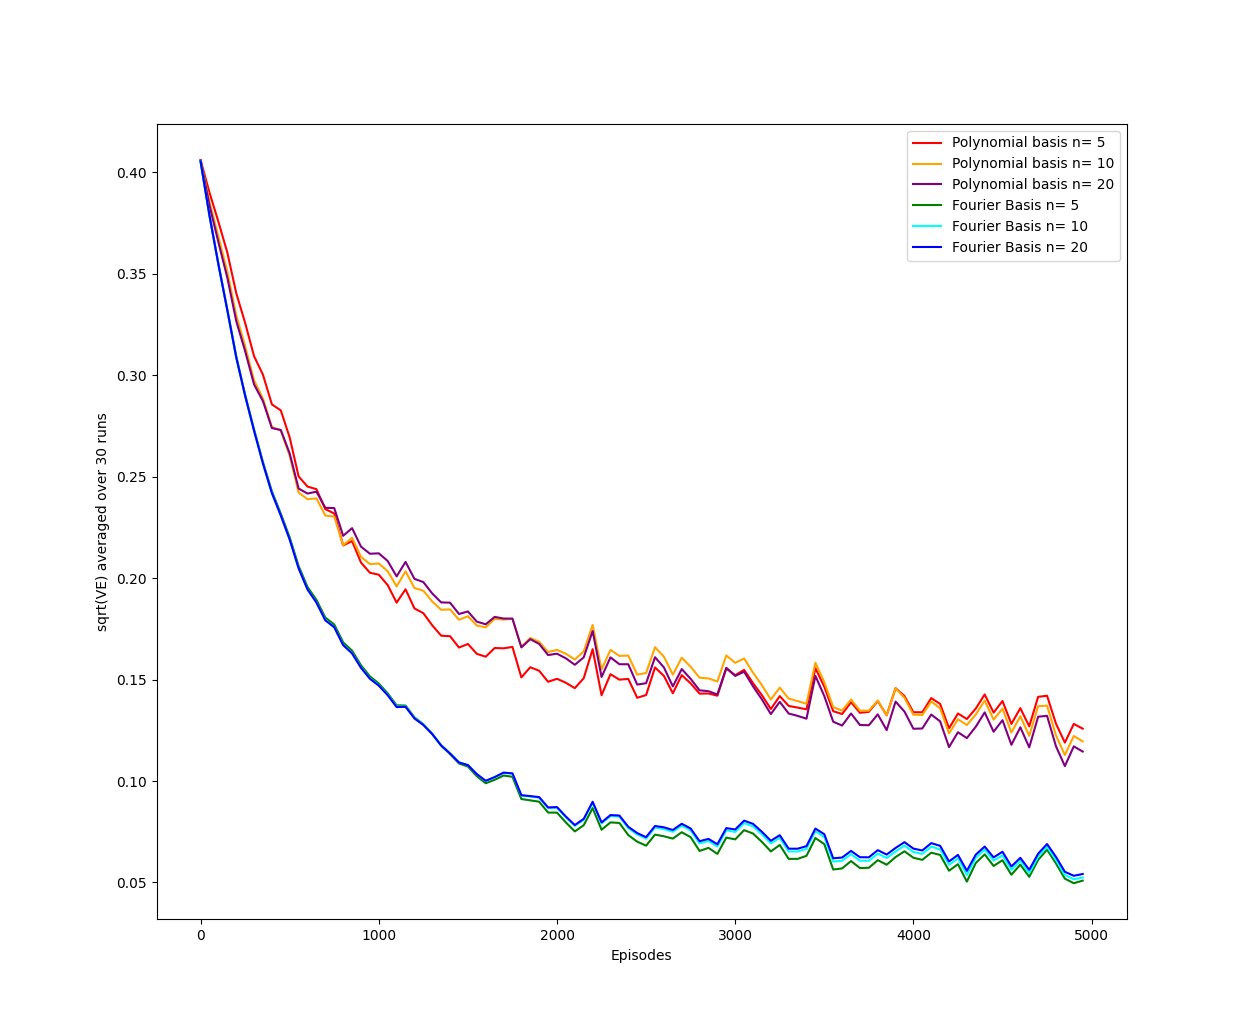
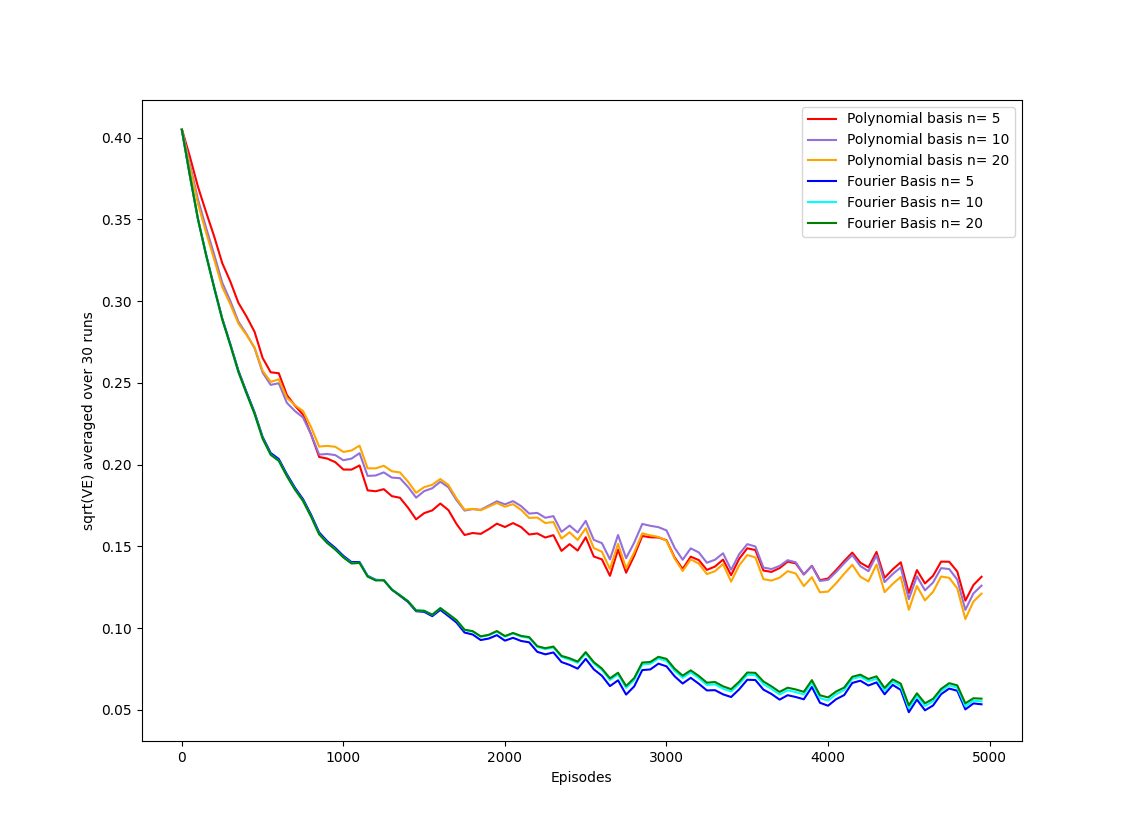
9.5 Refactor & Small Improvements

diff --git a/Part-II/9. On-policy Prediction with Approximation/utility/function_approximators.py b/Part-II/9. On-policy Prediction with Approximation/utility/function_approximators.py
@@ -1,4 +1,7 @@
 import numpy as np
+import math
+
+from .misc import *
 
 class GradientFunctionApproximator(object):
     def __init__(self, d, weights=None):
@@ -50,9 +53,10 @@ class PolynomialBasis(GradientFunctionApproximator):
     '''
     Expects 1d input
     '''
-    def __init__(self, n, highest_value):
+    def __init__(self, n, highest_value, lowest_value=0):
         self.d = n + 1
-        self.highest_value = highest_value
+        self.lowest_value = lowest_value
+        self.interval = highest_value - lowest_value
         super().__init__(self.d)
 
     def __call__(self, input):
@@ -63,7 +67,9 @@ class PolynomialBasis(GradientFunctionApproximator):
         return self._construct_feature_vector(input)
     
     def _construct_feature_vector(self, input):
-        input /= self.highest_value
+        input -= self.lowest_value
+        input /= self.interval
+        input = clip(input, 0, 1)
         powers = np.ones(self.d)
         for i in range(1, len(powers)):
             powers[i] = powers[i - 1] * input
@@ -73,9 +79,10 @@ class FourierBasis(GradientFunctionApproximator):
     '''
     Expects 1d input
     '''
-    def __init__(self, n, highest_value):
+    def __init__(self, n, highest_value, lowest_value=0):
         self.d = n + 1
-        self.highest_value = highest_value
+        self.lowest_value = lowest_value
+        self.interval = highest_value - lowest_value
         super().__init__(self.d)
 
     def __call__(self, input):
@@ -86,18 +93,21 @@ class FourierBasis(GradientFunctionApproximator):
         return self._construct_feature_vector(input)
     
     def _construct_feature_vector(self, input):
-        input /= self.highest_value
-        return np.cos(np.pi * input * np.arange(self.d))
+        input -= self.lowest_value
+        input /= self.interval
+        input = clip(input, 0, 1)
+        return np.cos(math.pi * input * np.arange(self.d))
 
 class TileCoding(GradientFunctionApproximator):
     '''
-    Expects 1d, discrete, input
+    Expects 1d input
     '''
-    def __init__(self, num_tilings, width, highest_value):
+    def __init__(self, num_tilings, width, highest_value, lowest_value=0):
         self.num_tilings = num_tilings
         self.width = width
-        self.highest_value = highest_value
-        self.max_tiles = int(np.ceil((highest_value + (num_tilings - 1) * (width / num_tilings)) / width)) + 1
+        self.lowest_value = lowest_value
+        interval = highest_value - lowest_value
+        self.max_tiles = int(math.ceil((interval + (num_tilings - 1) * (width / num_tilings)) / width))
         self.d = self.max_tiles * num_tilings
         super().__init__(self.d)
 
@@ -119,4 +129,7 @@ class TileCoding(GradientFunctionApproximator):
         self.weights = self.weights + alpha / self.num_tilings * change
     
     def _get_indices(self, input):
-        return [int((input + i * (self.width / self.num_tilings)) / self.width) + i * self.max_tiles for i in range(self.num_tilings)]
+        input -= self.lowest_value
+        # The clip makes sure that the index is valid even if there are outliers not in the interval [lowest_value, highest_value]
+        # Also, the very end point of the last interval/tile is not included normally, so a form of clip or min is necessary there 
+        return [clip(int((input + i * (self.width / self.num_tilings)) / self.width), 0, self.max_tiles - 1) + i * self.max_tiles for i in range(self.num_tilings)]

diff --git a/Part-II/9. On-policy Prediction with Approximation/9.5 Fourier & Polynomial Basis/main.py b/Part-II/9. On-policy Prediction with Approximation/9.5 Fourier & Polynomial Basis/main.py
@@ -19,11 +19,12 @@ JUMP_SIZE = 100
 ENVIRONMENT = RandomWalk(num_states=NUM_STATES, step_size=JUMP_SIZE)
 AGENT = RepeatableWrapper(StateCounterWrapper(UniformAgent(ENVIRONMENT)))
 N_VALUES = [5, 10, 20]
-V = [[PolynomialBasis(n, NUM_STATES) for n in N_VALUES], [FourierBasis(n, NUM_STATES) for n in N_VALUES]]
+V = [[PolynomialBasis(n=n, highest_value=NUM_STATES, lowest_value=1) for n in N_VALUES],
+     [FourierBasis(n=n, highest_value=NUM_STATES, lowest_value=1) for n in N_VALUES]]
 MAX_DELTA = 0.0001
 GAMMA = 1
 ALPHAS = [0.0001, 0.00005]
-COLOURS = [['red', 'orange', 'purple'], ['green', 'cyan', 'blue']]
+COLOURS = [['red', 'mediumpurple', 'orange'], ['blue', 'cyan', 'green']]
 LABELS = ['Polynomial basis', 'Fourier Basis']
 
 if __name__ == '__main__':
@@ -46,7 +47,7 @@ if __name__ == '__main__':
                 for e in tqdm(range(EPISODES), leave=False):
                     V[a][n] = gradient_monte_carlo_v(ENVIRONMENT, AGENT, GAMMA, max_episodes=1, alpha=ALPHAS[a], V=V[a][n], log=False)
                     if e % EPISODE_PLOT_INTERVAL == 0:
-                        errors[run, e // EPISODE_PLOT_INTERVAL, a, n] = np.sqrt(calculate_VE(lambda s: true_values[s - 1], V[a][n], states, distribution))
+                        errors[run, e // EPISODE_PLOT_INTERVAL, a, n] = math.sqrt(calculate_VE(lambda s: true_values[s - 1], V[a][n], states, distribution))
     
     errors = np.average(errors, axis=0)
 

diff --git a/Part-II/9. On-policy Prediction with Approximation/9.5 Tile Coding/main.py b/Part-II/9. On-policy Prediction with Approximation/9.5 Tile Coding/main.py
@@ -19,7 +19,8 @@ JUMP_SIZE = 100
 ENVIRONMENT = RandomWalk(num_states=NUM_STATES, step_size=JUMP_SIZE)
 AGENT = RepeatableWrapper(StateCounterWrapper(UniformAgent(ENVIRONMENT)))
 NUM_TILINGS = 50
-V = [TileCoding(num_tilings=1, width=200, highest_value=NUM_STATES), TileCoding(num_tilings=NUM_TILINGS, width=200, highest_value=NUM_STATES)]
+V = [TileCoding(num_tilings=1, width=200, highest_value=NUM_STATES, lowest_value=1), 
+     TileCoding(num_tilings=NUM_TILINGS, width=200, highest_value=NUM_STATES, lowest_value=1)]
 MAX_DELTA = 0.0001
 GAMMA = 1
 ALPHA = 0.0001
@@ -45,7 +46,7 @@ if __name__ == '__main__':
             for e in tqdm(range(EPISODES), leave=False):
                 V[a] = gradient_monte_carlo_v(ENVIRONMENT, AGENT, GAMMA, max_episodes=1, alpha=ALPHA, V=V[a], log=False)
                 if e % EPISODE_PLOT_INTERVAL == 0:
-                    errors[run, e // EPISODE_PLOT_INTERVAL, a] = np.sqrt(calculate_VE(lambda s: true_values[s - 1], V[a], states, distribution))
+                    errors[run, e // EPISODE_PLOT_INTERVAL, a] = math.sqrt(calculate_VE(lambda s: true_values[s - 1], V[a], states, distribution))
     
     errors = np.average(errors, axis=0)
 

diff --git a/Part-II/9. On-policy Prediction with Approximation/9.5 Fourier & Polynomial Basis/reference.py b/Part-II/9. On-policy Prediction with Approximation/9.5 Fourier & Polynomial Basis/reference.py
@@ -72,6 +72,6 @@ class FourierBasis(GradientFunctionApproximator):
         features = np.zeros(self.d)
         for i in range(self.d):
             constant_factors = [((i // powers_of_n_plus_one[k]) % (self.n + 1)) for k in range(len(input))]
-            features[i] = np.cos(np.pi * np.dot(input, np.array([constant_factors[k] for k in range(len(input))])))
+            features[i] = np.cos(math.pi * np.dot(input, np.array([constant_factors[k] for k in range(len(input))])))
         
         return features

diff --git a/Part-II/9. On-policy Prediction with Approximation/utility/misc.py b/Part-II/9. On-policy Prediction with Approximation/utility/misc.py
@@ -1,4 +1,3 @@
-from os import terminal_size
 import numpy as np
 from tqdm import tqdm
 
@@ -18,6 +17,12 @@ def argmax(array):
         elif array[i] == best:
             indices.append(i)
     return np.random.choice(indices)
+
+def clip(x, a, b):
+    '''
+    Using numpy.clip on scalars is significantly slower than this.
+    '''
+    return min(b, max(x, a))
 
 def calculate_gammas(gamma, highest_power):
     gammas = np.ones(highest_power + 1)

diff --git a/Part-II/9. On-policy Prediction with Approximation/utility/policy_evaluation.py b/Part-II/9. On-policy Prediction with Approximation/utility/policy_evaluation.py
@@ -1,4 +1,3 @@
-import numpy as np
 from tqdm import tqdm
 
 from .misc import *
